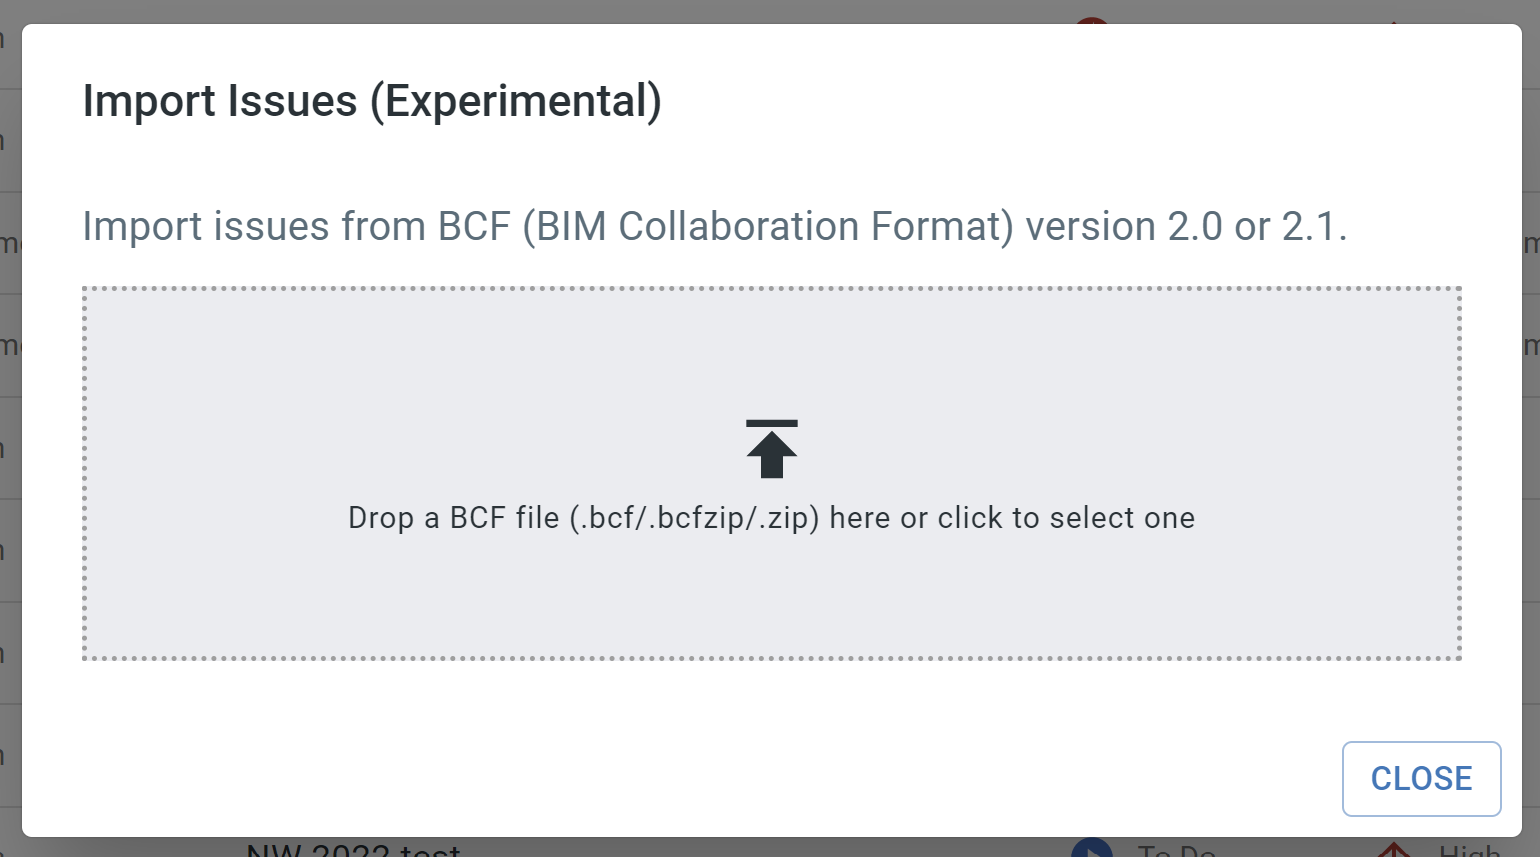
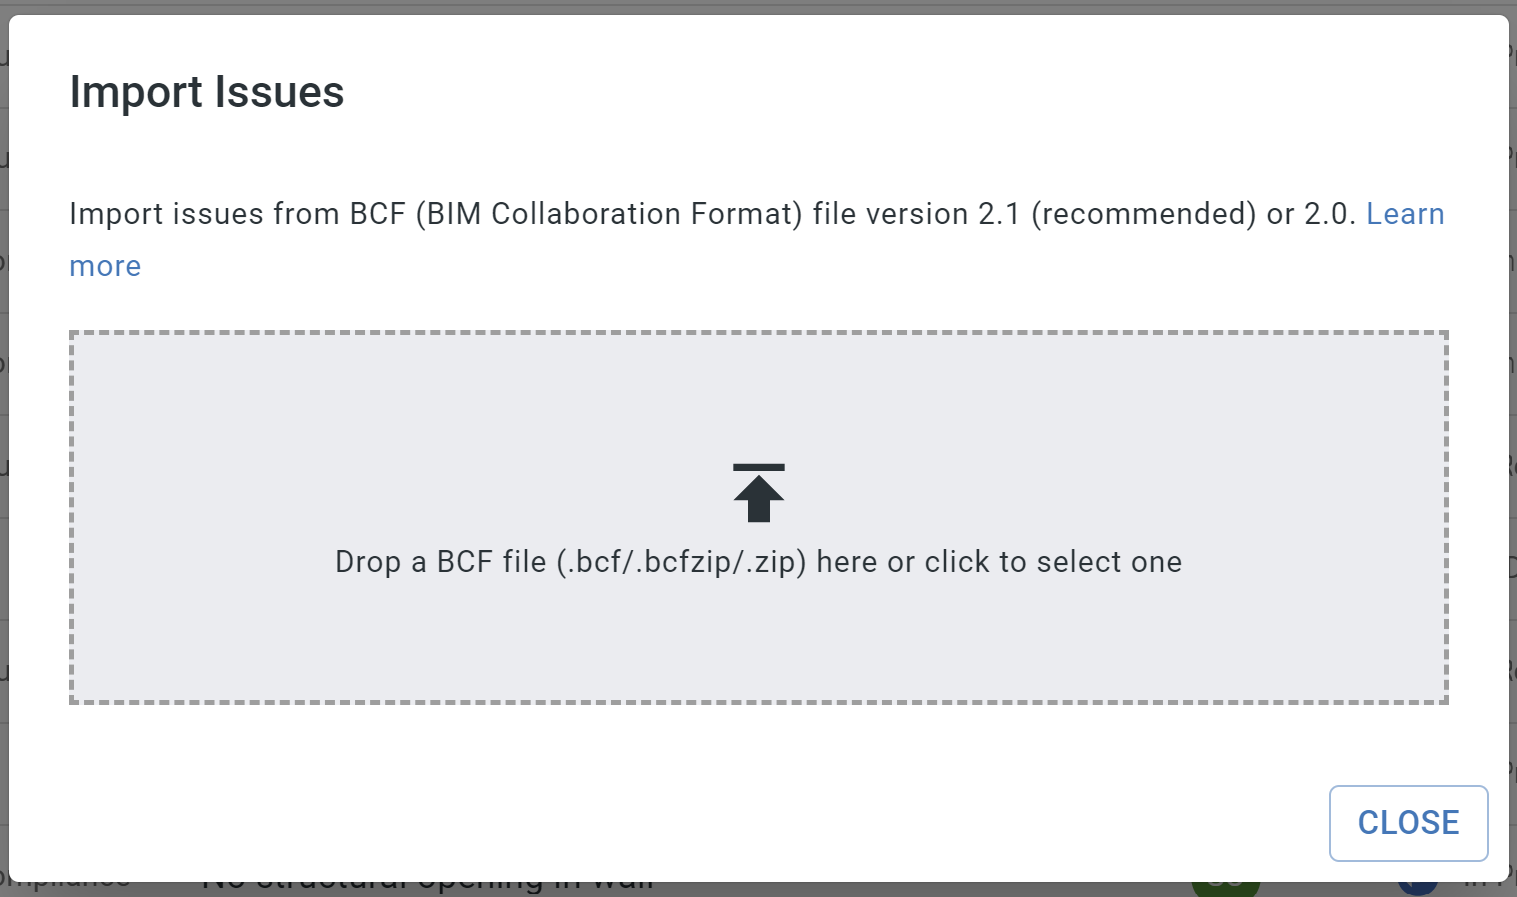
Updated docs for importing issues and launcher

Changed region(s): [[0.0, 0.0, 1.0, 1.0], [0.2169, 0.4854, 0.7746, 0.6371]]

diff --git a/docs/agile/import-and-export-issues.md b/docs/agile/import-and-export-issues.md
@@ -1,21 +1,45 @@
 # Import and Export Issues
-Occasionally you might want to bulk import or export issue for various purposes. bimU.io Agile provides a number of different ways to do it.
+Occasionally you might want to bulk import or export issues for various purposes. bimU.io Agile provides a number of different ways to do it.
 
 ### Import Issues
-If you run clash detection or capture problems in other BIM software, it is possible to import issues in batch to bimU.io Agile. Click the ``plus`` button on the top right menu bar and select ``Import Issues``.
+If you run clash detection or capture problems in other BIM software, it is possible to import issues in batch to bimU.io Agile. Click the ``plus`` button on the top right menu bar and select ``Import Issues``. Then you can select which source to import issues from.
 
 ![Screenshot](../images/import-issues.png){: class="center" style="width:80%"}
 
 #### Import from BCF
-<a href="https://en.wikipedia.org/wiki/BIM_Collaboration_Format" target="_blank">BIM Collaboration Format (BCF)</a> is a structured file format suited to issue tracking with a building information model. bimU.io Agile supports BCF version 2.0 or 2.1 (.bcf/.bcfzip/.zip).
+<a href="https://en.wikipedia.org/wiki/BIM_Collaboration_Format" target="_blank">BIM Collaboration Format (BCF)</a> is a structured file format suited to issue tracking with a building information model. bimU.io Agile supports BCF version 2.1 (recommended) or 2.0 (.bcf/.bcfzip/.zip).
 
 ![Screenshot](../images/import-bcf.png){: class="center" style="width:80%"}
 
 #### Import from Navisworks
-This function is currently being developed and will be available in early 2022.
+There are two types of saved items in Navisworks: `Clash Detective` and `Saved Viewpoint`. Choose one to import. 
+
+![Screenshot](../images/nw-clash-detective.png){: class="center" style="width:80%"}
+
+Make sure you have the latest [bimU.io Launcher](/upload-a-bim-model#install-bimuio-launcher) installed and select a Navisworks session from the list to proceed to [Select Items](/agile/import-and-export-issues#select-items-to-import).
+
+![Screenshot](../images/import-nw.png){: class="center" style="width:80%"}
 
 #### Import from Solibri
-This function is currently being developed and will be available in early 2022.
+Please firstly make sure Solibri is opened with REST API enabled and [bimU.io Launcher](/upload-a-bim-model#install-bimuio-launcher) is running in the background. We've created a Windows program called **Start Solibri** that does everything needed to use this function. You can find it in the `Start Menu` => `bimU.io` (or `Transformosa`) => `Start Solibri`.
+
+By default, it will import all of the issues in the current `Presentation`. Alternatively, you can `select` or `mark` some issues to import.
+
+![Screenshot](../images/solibri-issues.png){: class="center" style="width:60%"}
+
+Make sure you have the latest [bimU.io Launcher](/upload-a-bim-model#install-bimuio-launcher) installed and select a Solibri session from the list to proceed to [Select Items](/agile/import-and-export-issues#select-items-to-import).
+
+![Screenshot](../images/import-solibri.png){: class="center" style="width:80%"}
+
+#### Select Items to Import
+Review and select what items to import. The table has a few tools, such as text search, filter, etc., that allow you to quickly find issues. Click `NEXT` to [Set Issue Properties](/agile/import-and-export-issues#set-issue-properties) when you're done. 
+
+![Screenshot](../images/select-imported-items.png){: class="center" style="width:80%"}
+
+#### Set Issue Properties
+You can set issue properties to apply to the selected items. Click `START IMPORT` to trigger the import process.
+
+![Screenshot](../images/set-issue-properties.png){: class="center" style="width:60%"}
 
 ### Export Issues
 You can export selected issues from the [Issue List](/agile/manage-and-resolve-issues/#view-issues-in-issue-list) to different formats, including JSON, CSV, and your custom report format.

diff --git a/docs/viewer/upload-a-bim-model.md b/docs/viewer/upload-a-bim-model.md
@@ -18,15 +18,15 @@ bimU.io Launcher is a middleware that exchanges data between bimU.io and BIM sof
 - Autodesk Revit 2014-2022
 - Autodesk Navisworks 2014-2022
 - Trimble Tekla Structures 21.0-2021
-- Solibri 9.12.1 (Open viewpoint only)
+- Solibri 9.12.1 or newer (Only for importing issues and opening viewpoint)
 
 #### Download Installer
 
-**<a href="https://github.com/Transformosa/bimU.io.Launcher/releases/download/2021.9.25.0/bimU_io_Launcher_2021.9.25.0.exe" target="_blank">Download bimU.io Launcher 2021.9.25.0</a>**
+**<a href="https://github.com/Transformosa/bimU.io.Launcher/releases/download/2022.2.15.0/bimU_io_Launcher_2022.2.15.0.exe" target="_blank">Download bimU.io Launcher 2022.2.15.0</a>**
 
 !!! warning "Please close all BIM software sessions prior to installation."
 
-The latest version of bimU.io Launcher is 2021.9.25.0. The installer can downloaded from the link above. Technically speaking, admin right is NOT required for the installation. Please speak to your IT staffs if you don't have permission to install it.
+The latest version of bimU.io Launcher is 2022.2.15.0. The installer can downloaded from the link above. Technically speaking, admin right is NOT required for the installation. Please speak to your IT staffs if you don't have permission to install it.
 
 #### Automatic Update
 
